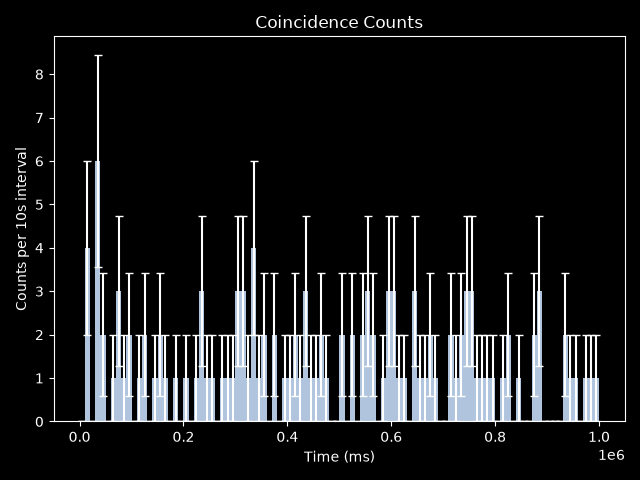
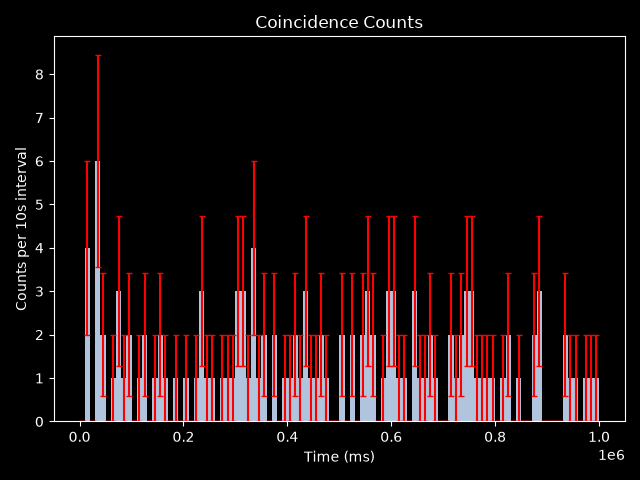
Finished poisson statistics part 1

diff --git a/in_class_exercises/xs1_1.3/poisson_statistics.py b/in_class_exercises/xs1_1.3/poisson_statistics.py
@@ -28,7 +28,11 @@ plt.style.use("dark_background")
 counts, edges, _ = plt.hist(times, bins, color="lightsteelblue")
 centers = (edges[:-1] + edges[1:])/2 # error bars placed at centers
 
-plt.errorbar(centers, counts, yerr=np.sqrt(counts), fmt="none", ecolor="white", capsize=3)
+plt.errorbar(centers, counts, 
+             yerr=np.sqrt(counts), 
+             fmt="none", 
+             ecolor="red", 
+             capsize=2)
 
 plt.xlabel("Time (ms)")
 plt.ylabel("Counts per 10s interval")
@@ -36,3 +40,68 @@ plt.title("Coincidence Counts")
 
 plt.tight_layout()
 plt.savefig("coincidences_histogram.png")
+
+# cumulative average
+j = np.arange(1, len(counts) + 1)
+mu_c = []
+for i in j:
+    mu_c.append(sum(counts[0:i])/i)
+
+plt.figure()
+plt.scatter(j, mu_c, color="lightsteelblue")
+plt.xlabel("Number of 10s intervals")
+plt.ylabel("Cumulative mean")
+
+mu_c = np.array(mu_c)
+mu_c_err = np.sqrt(mu_c/j)
+
+plt.errorbar(j, mu_c, 
+             yerr=mu_c_err, 
+             fmt="none", 
+             ecolor="lightgray", 
+             elinewidth=0.7,
+             capsize=1.5, capthick=0.7
+             )
+plt.tight_layout()
+plt.savefig("cumulative_mean.png")
+
+# print(f"Mean after 100 intervals: {mu_c[-1]}")
+# print(f"Error on mean: {mu_c_err[-1]}")
+
+# second calculation
+bins2 = np.arange(1_000_000, 2_000_001, 10_000)
+counts2, edges2, _ = plt.hist(times, bins2)
+
+j2 = np.arange(1, len(counts2) + 1)
+
+mu_c2 = []
+for i in j2:
+    mu_c2.append(sum(counts2[0:i]) / i)
+
+mu_c2 = np.array(mu_c2)
+mu_c2_err = np.sqrt(mu_c2/j2)
+
+# plot the different means
+plt.figure()
+plt.errorbar(j, mu_c, yerr=mu_c_err, fmt=".", capsize=1.5, label="First 100 intervals")
+plt.errorbar(j2, mu_c2, yerr=mu_c2_err, fmt=".", capsize=1.5, label="Second 100 intervals")
+plt.legend()
+plt.tight_layout()
+plt.savefig("running_mean_comparison.png")
+
+mean1 = mu_c[-1]
+mean2 = mu_c2[-1]
+error1 = mu_c_err[-1]
+error2 = mu_c2_err[-1]
+
+diff = abs(mean1 - mean2)
+combined_err = np.sqrt(error1**2 + error2**2)
+
+# print(f"First mean: {mean1})
+# print(f"First error: {error1})
+# print(f"Second mean: {mean2} 
+# print(f"Second error: {error2})
+# print(f"Difference: {diff}")
+# print(f"Combined standard error: {combined_err}")
+# print(f"Means differ by {diff / diff_err} combined standard errors.")
+
